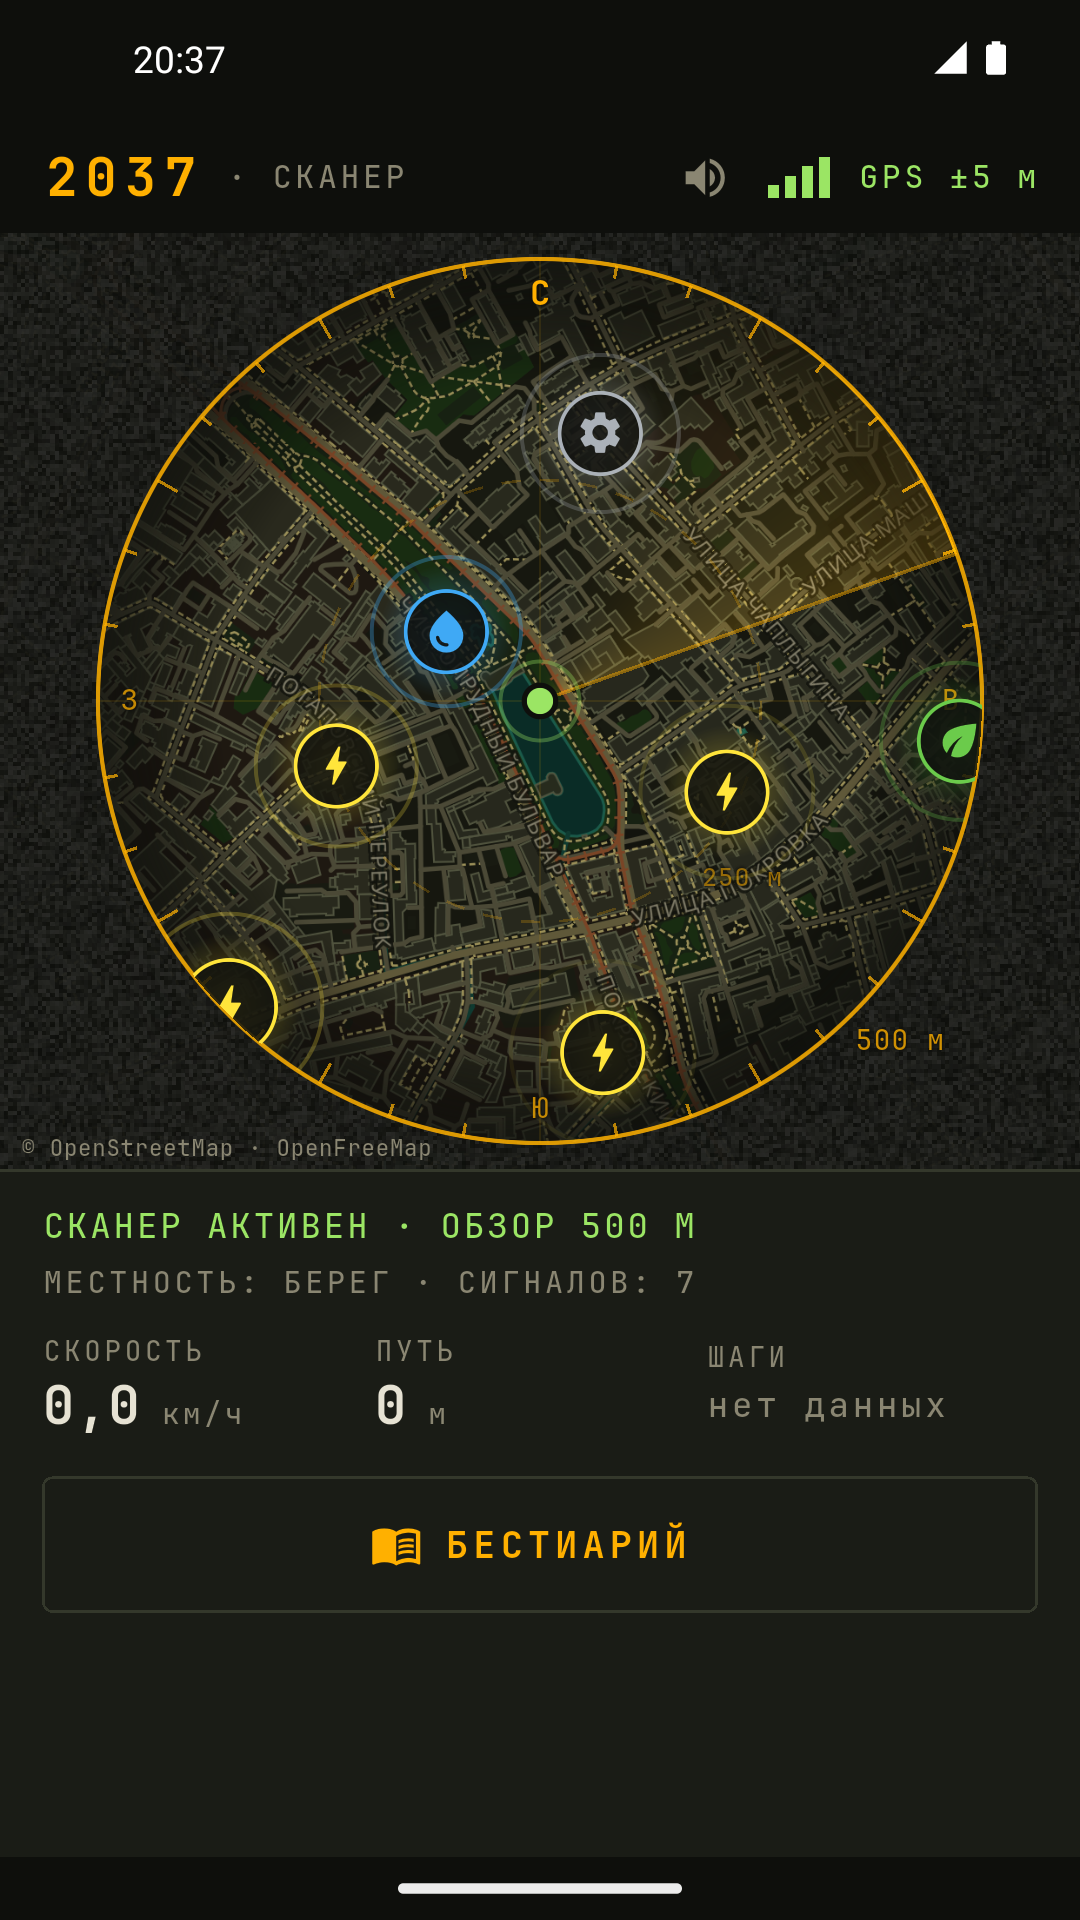
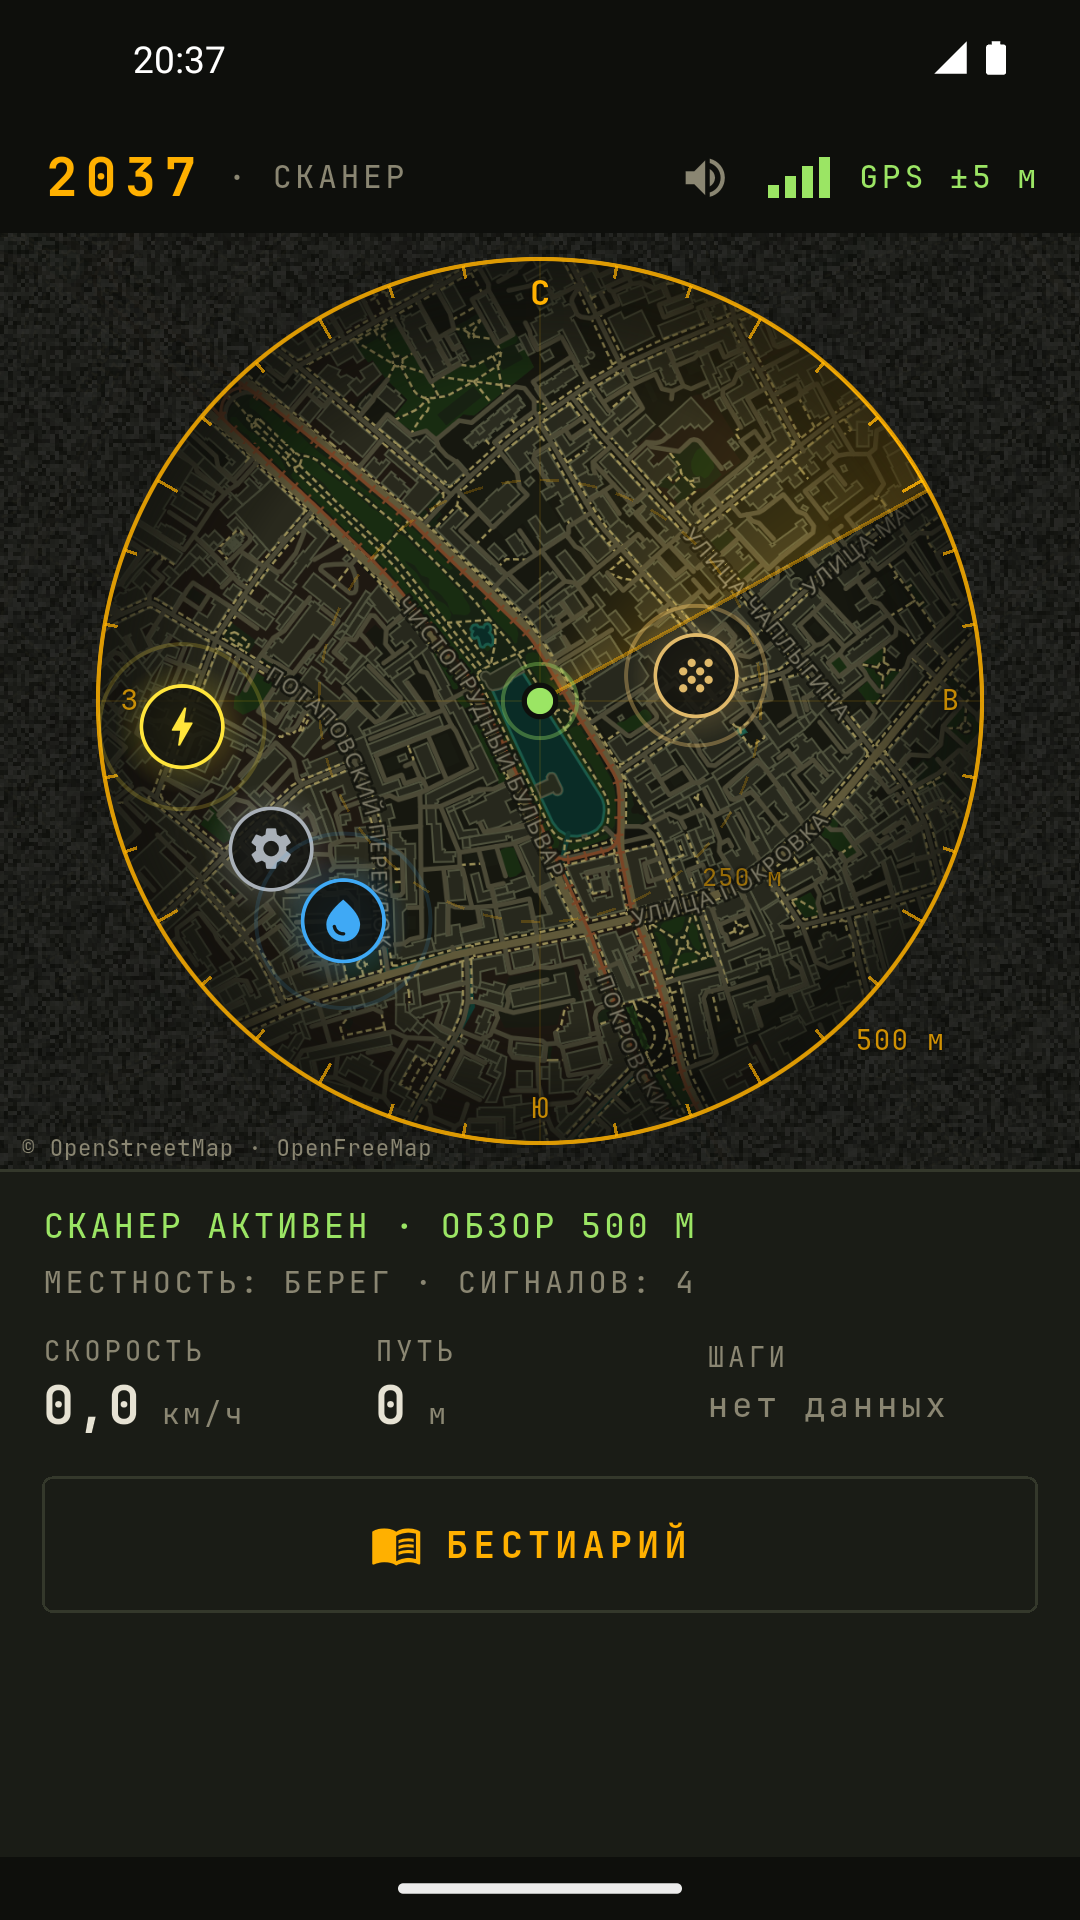
Снимки и статус: сканер и поимка (0.5.0)

diff --git a/index.html b/index.html
@@ -43,12 +43,12 @@
   <div class="shots">
     <img src="shot-1.png" alt="Карта слившегося мира и сигналы вокруг" loading="lazy" width="1080" height="1920">
     <img src="shot-2.png" alt="Охота по следу: метка и прочитанные следы" loading="lazy" width="1080" height="1920">
-    <img src="shot-3.png" alt="Существо выслежено: страница бестиария проявилась" loading="lazy" width="1080" height="1920">
-    <img src="shot-4.png" alt="Потеря сигнала на скорости транспорта" loading="lazy" width="1080" height="1920">
+    <img src="shot-3.png" alt="Существо в кадре сканера: рамка прицела и шкала фиксации" loading="lazy" width="1080" height="1920">
+    <img src="shot-4.png" alt="Поймано: существо проявилось из помех" loading="lazy" width="1080" height="1920">
   </div>
 
   <h2>Идёт закрытое тестирование</h2>
-  <p>Игра делается по шагам, и каждый шаг проверяется на улице. Уже работает главное — охота по следу: метки, следы, шесть характеров существ, бестиарий, страницы которого проявляются. Встреча через камеру и поимка — следующие.</p>
+  <p>Игра делается по шагам, и каждый шаг проверяется на улице. Уже работает главное — охота по следу и поимка: метки, следы, шесть характеров существ, сканер по сторонам света, бестиарий, страницы которого проявляются. Картинка с камеры — следующая.</p>
   <ol class="steps">
     <li>Вступите в группу тестировщиков: <a href="https://groups.google.com/g/scanner2037-testers">groups.google.com/g/scanner2037-testers</a></li>
     <li>Станьте тестировщиком: <a href="https://play.google.com/apps/testing/app.g2037.scanner">play.google.com/apps/testing/app.g2037.scanner</a></li>
@@ -71,7 +71,7 @@
   <h2>In English</h2>
   <p class="lead">In 2037 the Earth collided with an alternate version of itself. The two worlds did not destroy each other — they grew together. People called it the Merge. The street is the same as ever. Who walks it now is another question.</p>
   <p>Your phone becomes a tracker's scanner: a worn field instrument that sees what the eye cannot. It shows the world within 500 metres of you and picks up signals of the creatures that came after the Merge. What exactly is out there, the scanner cannot tell. There is one way to find out: walk there.</p>
-  <p>The game is in closed testing. Its heart already works: tracking — marks, traces, six creature temperaments, and a bestiary whose pages come into focus. The camera encounter and the capture come next. To join, use the three links above.</p>
+  <p>The game is in closed testing. Its heart already works: tracking and capture — marks, traces, six creature temperaments, a compass-bound scanner frame, and a bestiary whose pages come into focus. The camera image comes next. To join, use the three links above.</p>
   <p><a href="privacy.html">Privacy Policy</a></p>
   </div>
 
